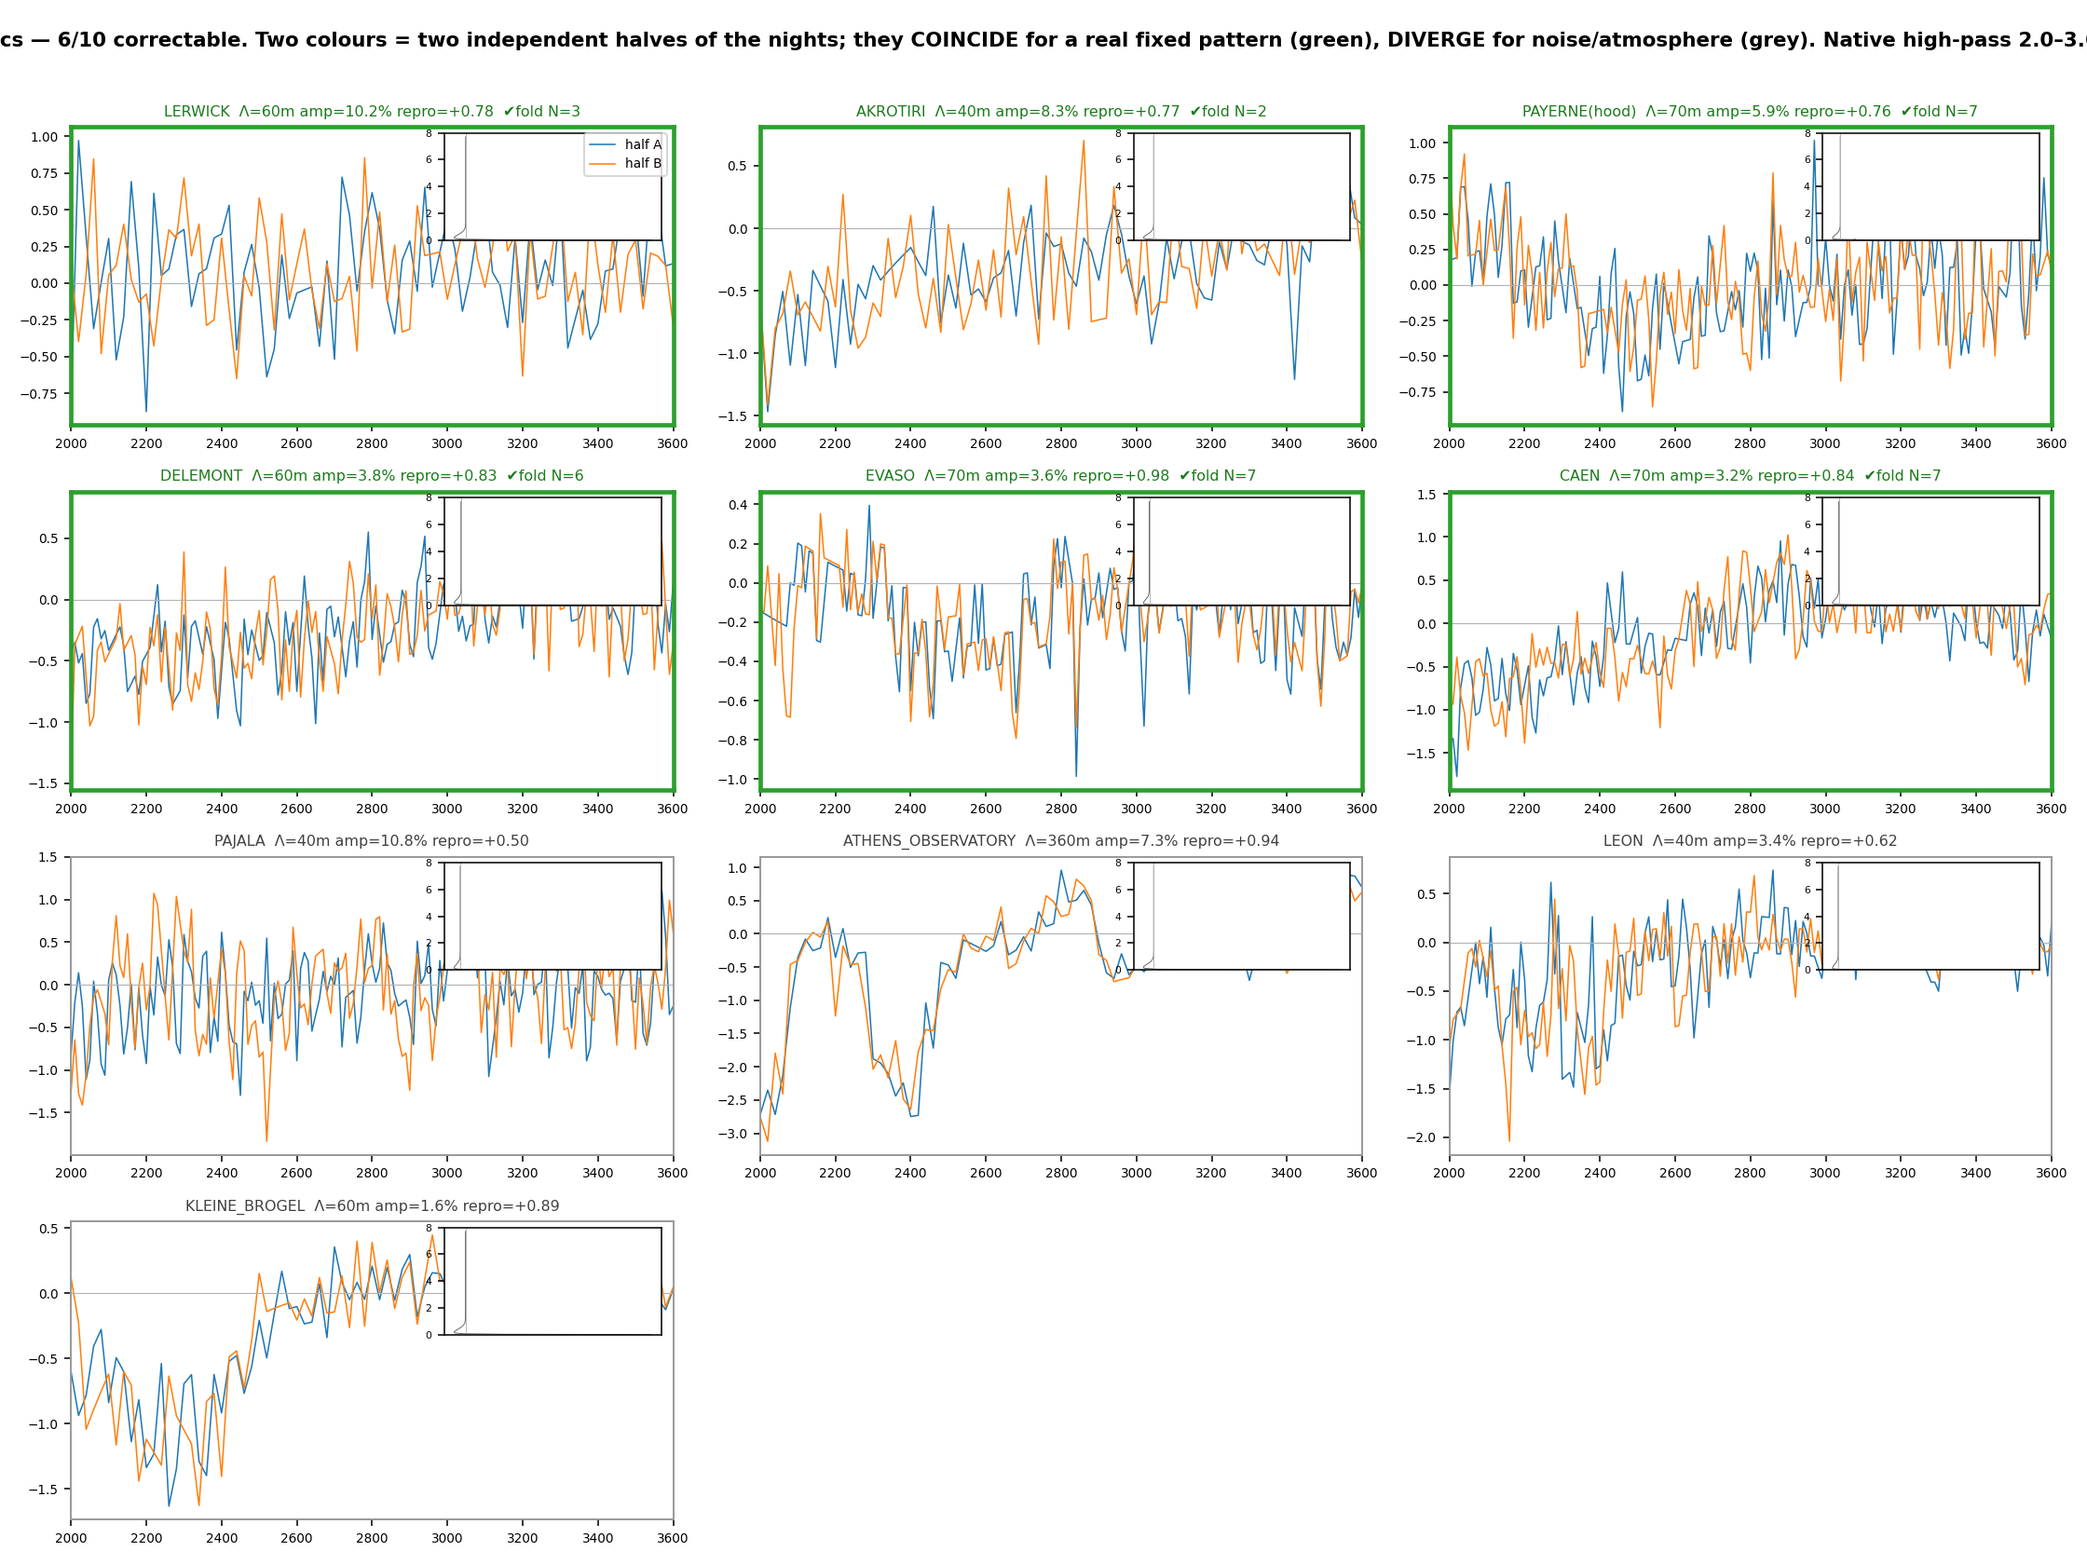
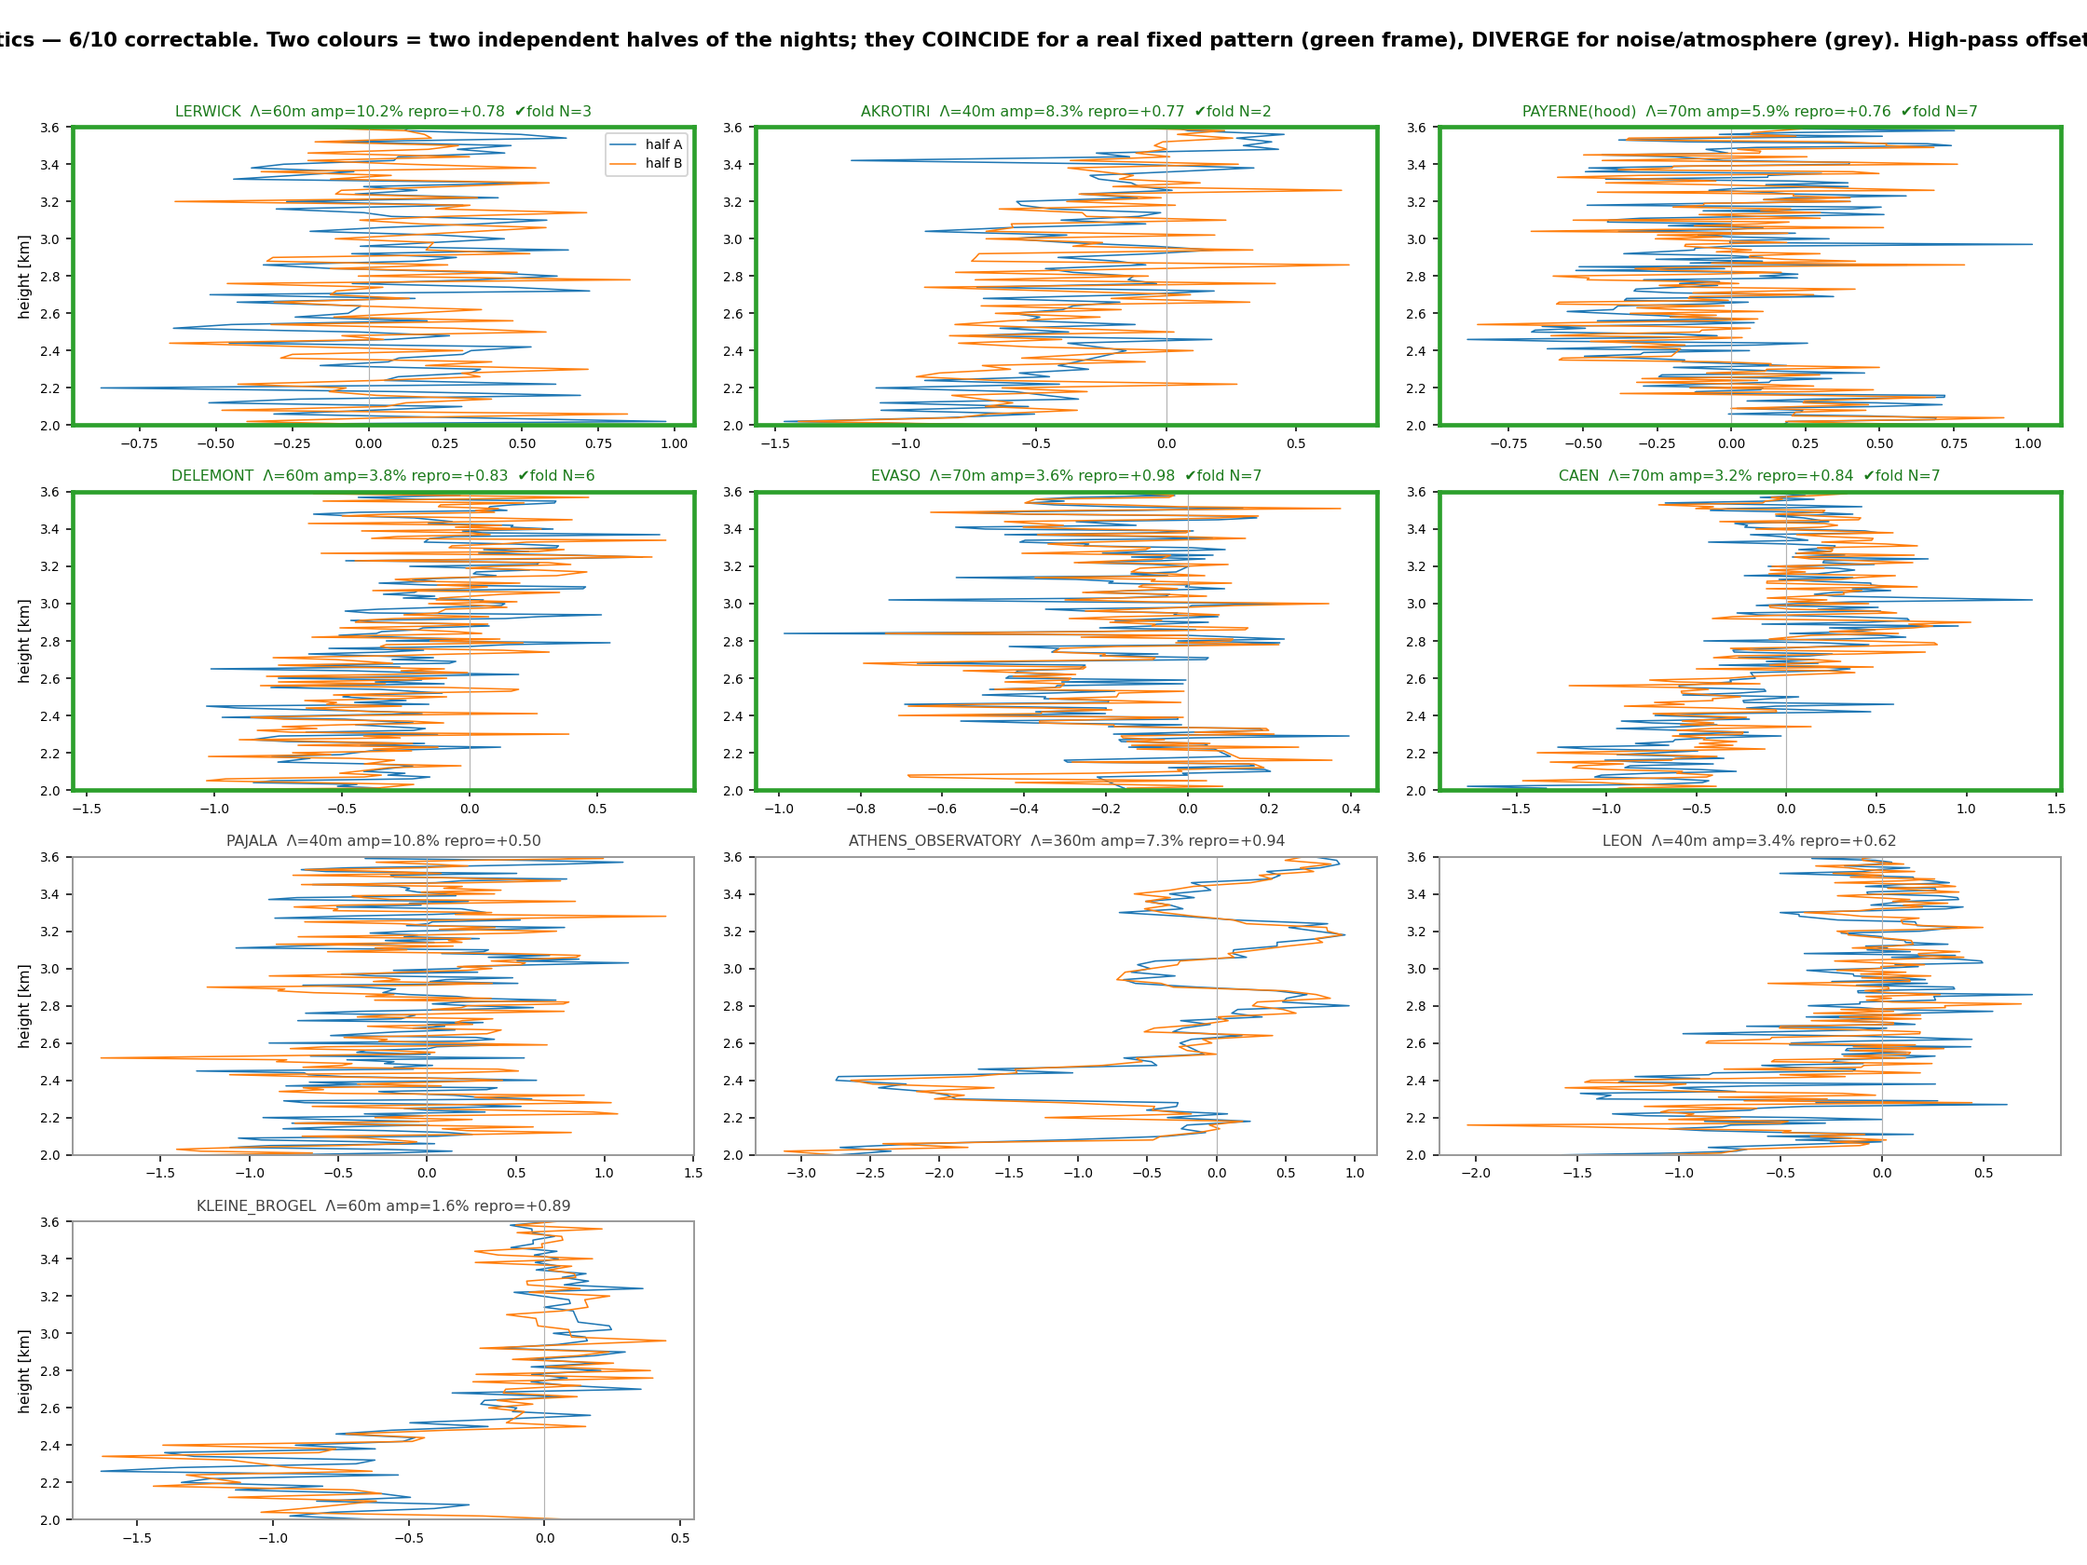
network offset: all-station pcolor diagnostics + height-on-Y axis convention
- Report now embeds diagnostics for ALL 31 stations: split-half offset grids (Figs
  3-5) + clear-day time-height PCOLOR quicklooks (Figs 3b-5b, new
  _offset_pcolor_diagnostics.py), plus one corrected-signal figure per correctable
  station (Figs 6-15).
- Convention: altitude/range now on the Y axis everywhere. The split-half diagnostics
  are flipped (offset on x, height on y) and the confusing full-profile INSET (the
  "empty black square" in the corner) is removed.
- pcolor colour scale focuses on the bulk signal (25-99.5 pct) so weak/uniform CL61
  profiles aren't washed to the dark floor; degenerate LogNorm limits guarded.

diff --git a/validation/paper/_offset_pcolor_diagnostics.py b/validation/paper/_offset_pcolor_diagnostics.py
@@ -1,0 +1,104 @@
+# -*- coding: utf-8 -*-
+"""Time-height PCOLOR quicklook for EVERY scanned instrument (all 31), one panel per station on a
+per-type grid, so the actual clear-day signal (and any visible banding) is auditable network-wide.
+Height on the Y axis (convention); time on X; log attenuated backscatter. Panels are framed green
+(correctable) / grey (not) and titled with the offset amplitude and split-half reproducibility."""
+import sys, glob, csv, warnings
+warnings.filterwarnings("ignore")
+sys.path.insert(0, r"C:/Users/hervo/OneDrive/Documents/ALC_rayleigh_calibration")
+try:
+    sys.stdout.reconfigure(encoding="utf-8", errors="replace")
+except Exception:
+    pass
+from pathlib import Path
+import numpy as np
+import matplotlib
+matplotlib.use("Agg")
+import matplotlib.pyplot as plt
+from matplotlib.colors import LogNorm
+import matplotlib.dates as mdates
+from validation.paper._offset_lib import read_file, list_files
+
+D = Path("C:/DATA/Projects/202606_E-PROFILE_calibration/figs_paper_validation/paper_python")
+NPZ = D / "network_offset"
+REPORT_FIG = Path("C:/Users/hervo/OneDrive/Documents/ALC_rayleigh_calibration/doc/reports/figs_paper_report")
+ZTOP = 6000.0
+
+meta = {}
+for r in csv.DictReader(open(D / "network_offset_coeffs_final.csv", encoding="utf-8")):
+    meta[(r["wmo"], r["ident"], r["itype"])] = r
+
+
+def clear_day(wmo, ident):
+    best = None
+    for f in list_files(wmo, ident, ("05",)):
+        try:
+            tt, r, x, cbh, _ = read_file(f)
+        except Exception:
+            continue
+        if x.ndim != 2 or tt.size < 200:
+            continue
+        nc = np.nanmax(cbh, axis=1) < 0 if cbh is not None else np.ones(tt.size, bool)
+        if best is None or int(nc.sum()) > best[0]:
+            best = (int(nc.sum()), tt, r, x)
+    return best[1:] if best else None
+
+
+def stations(itype):
+    out = []
+    for f in sorted(glob.glob(str(NPZ / f"*_{itype}.npz"))):
+        name = Path(f).stem
+        wmo = "_".join(name.split("_")[:-2]); ident = name.split("_")[-2]
+        z = np.load(f, allow_pickle=True); m = meta.get((wmo, ident, itype), {})
+        out.append((str(z["site"]), wmo, ident, m))
+    out.sort(key=lambda t: (-(t[3].get("correctable") == "1"), -float(t[3].get("rel_amp_pct", 0) or 0)))
+    return out
+
+
+TYPES = tuple(sys.argv[1:]) or ("CL51", "CL31", "CL61")     # optional: process only listed types
+for itype in TYPES:
+    rows = stations(itype)
+    n = len(rows); ncol = 3; nrow = int(np.ceil(n / ncol))
+    fig, ax = plt.subplots(nrow, ncol, figsize=(16, 2.9 * nrow), squeeze=False)
+    for k, (site, wmo, ident, m) in enumerate(rows):
+        a = ax[k // ncol][k % ncol]
+        got = clear_day(wmo, ident)
+        corr = m.get("correctable", "0") == "1"
+        col = "#2ca02c" if corr else "0.6"
+        for s in a.spines.values():
+            s.set_color(col); s.set_linewidth(2.4 if corr else 1.0)
+        if got is None:
+            a.text(0.5, 0.5, "no data", ha="center"); continue
+        tt, rng, X = got
+        beta = np.abs(X) * (1.0 if itype == "CL61" else 1e-2)     # nominal β_att scale
+        zm = rng <= ZTOP; tnum = mdates.date2num(tt)
+        pos = beta[:, zm][beta[:, zm] > 0]
+        # focus the colour scale on the bulk signal (25-99.5 pct) so weak, uniform profiles (CL61)
+        # are not washed to the dark floor by a few bright surface pixels
+        vmin = np.nanpercentile(pos, 25) if pos.size else 1e-3
+        vmax = np.nanpercentile(pos, 99.5) if pos.size else 1.0
+        if not np.isfinite(vmin) or vmin <= 0:
+            vmin = 1e-4
+        if not np.isfinite(vmax) or vmax <= vmin:
+            vmax = vmin * 100                                      # guard degenerate LogNorm limits
+        a.imshow(np.clip(beta[:, zm].T, vmin, vmax), aspect="auto", origin="lower",
+                 extent=[tnum[0], tnum[-1], 0, rng[zm].max() / 1000], cmap="turbo",
+                 norm=LogNorm(vmin=vmin, vmax=vmax))
+        a.xaxis_date(); a.xaxis.set_major_formatter(mdates.DateFormatter("%H")); a.tick_params(labelsize=7)
+        if k % ncol == 0:
+            a.set_ylabel("height [km]", fontsize=8)
+        amp = float(m.get("rel_amp_pct", 0) or 0); rep = float(m.get("split_half_repro", 0) or 0)
+        a.set_title(f"{site[:20]}  amp={amp:.1f}% repro={rep:+.2f}" + ("  ✔" if corr else ""),
+                    fontsize=8.2, color=("#1a7a1a" if corr else "0.25"))
+        print(f"  {itype} {site}", flush=True)
+    for k in range(n, nrow * ncol):
+        ax[k // ncol][k % ncol].axis("off")
+    ncorr = sum(1 for r in rows if r[3].get("correctable") == "1")
+    fig.suptitle(f"{itype} clear-day time-height quicklook — all {n} stations ({ncorr} correctable, green). "
+                 f"Time (x, hour UTC) vs height (y, 0–{ZTOP/1000:.0f} km); log β_att (nominal calibration).",
+                 fontweight="bold", fontsize=11)
+    fig.tight_layout(rect=(0, 0, 1, 0.97))
+    out = D / f"fig_offset_pcolor_{itype}.png"
+    fig.savefig(out, dpi=135); fig.savefig(REPORT_FIG / out.name, dpi=135)
+    print(f"saved {out.name}", flush=True)
+print("OFFSET_PCOLOR_DIAGNOSTICS_DONE")

diff --git a/validation/paper/_offset_diagnostics.py b/validation/paper/_offset_diagnostics.py
@@ -53,10 +53,11 @@ for itype in ("CL51", "CL31", "CL61"):
     fig, ax = plt.subplots(nrow, ncol, figsize=(16, 3.0 * nrow), squeeze=False)
     for k, d in enumerate(rows):
         a = ax[k // ncol][k % ncol]
-        rng = d["rng"]; zm = (rng >= ZOOM_LO) & (rng <= ZOOM_HI)
-        a.plot(rng[zm], d["hpa"][zm], "-", lw=0.8, color="#1f77b4", label="half A")
-        a.plot(rng[zm], d["hpb"][zm], "-", lw=0.8, color="#ff7f0e", label="half B")
-        a.axhline(0, color="0.7", lw=0.6)
+        rng = d["rng"]; zm = (rng >= ZOOM_LO) & (rng <= ZOOM_HI); zk = rng / 1000.0
+        # range on the Y axis (convention); the two night-halves as X-value profiles
+        a.plot(d["hpa"][zm], zk[zm], "-", lw=0.8, color="#1f77b4", label="half A")
+        a.plot(d["hpb"][zm], zk[zm], "-", lw=0.8, color="#ff7f0e", label="half B")
+        a.axvline(0, color="0.7", lw=0.6)
         col = "#2ca02c" if d["corr"] else "0.6"
         for s in a.spines.values():
             s.set_color(col); s.set_linewidth(2.4 if d["corr"] else 1.0)
@@ -64,20 +65,18 @@ for itype in ("CL51", "CL31", "CL61"):
         a.set_title(f"{d['site'][:20]}  Λ={d['Lam']:.0f}m amp={d['rel']:.1f}% repro={d['repro']:+.2f}"
                     + (f"  ✔{mode}" if d["corr"] else ""), fontsize=8.2,
                     color=("#1a7a1a" if d["corr"] else "0.25"))
-        a.set_xlim(ZOOM_LO, ZOOM_HI); a.tick_params(labelsize=7)
+        a.set_ylim(ZOOM_LO / 1000, ZOOM_HI / 1000); a.tick_params(labelsize=7)
+        if k % ncol == 0:
+            a.set_ylabel("height [km]", fontsize=8)
         if k == 0:
             a.legend(fontsize=7, loc="upper right")
-        ins = a.inset_axes([0.62, 0.62, 0.36, 0.36])
-        fm = rng <= 8000
-        ins.plot(d["hp"][fm], rng[fm] / 1000, lw=0.5, color="0.4")
-        ins.axvline(0, color="0.7", lw=0.5); ins.set_xticks([]); ins.tick_params(labelsize=5.5); ins.set_ylim(0, 8)
     for k in range(n, nrow * ncol):
         ax[k // ncol][k % ncol].axis("off")
     ncorr = sum(1 for d in rows if d["corr"])
-    fig.suptitle(f"{itype} offset diagnostics — {ncorr}/{n} correctable. Two colours = two independent "
-                 f"halves of the nights; they COINCIDE for a real fixed pattern (green), DIVERGE for "
-                 f"noise/atmosphere (grey). Native high-pass {ZOOM_LO/1000:.1f}–{ZOOM_HI/1000:.1f} km; inset = 0–8 km.",
-                 fontweight="bold", fontsize=11)
+    fig.suptitle(f"{itype} split-half offset diagnostics — {ncorr}/{n} correctable. Two colours = two "
+                 f"independent halves of the nights; they COINCIDE for a real fixed pattern (green frame), "
+                 f"DIVERGE for noise/atmosphere (grey). High-pass offset (x) vs height (y), "
+                 f"{ZOOM_LO/1000:.1f}–{ZOOM_HI/1000:.1f} km.", fontweight="bold", fontsize=11)
     fig.tight_layout(rect=(0, 0, 1, 0.97))
     out = D / f"fig_offset_diagnostics_{itype}.png"
     fig.savefig(out, dpi=140); fig.savefig(REPORT_FIG / out.name, dpi=140)

diff --git a/doc/reports/network_offset_coefficients.md b/doc/reports/network_offset_coefficients.md
@@ -76,6 +76,19 @@ offset. **Pajala** is rejected as too noisy (repro 0.50).*
 *Figure 5 — CL61: 0/10. Several show a reproducible pattern, but it decays with range (undamped ≈ 0.1)
 — the smooth near-range undershoot, which the clear-night high-pass cannot isolate (needs a hood).*
 
+**Clear-day time-height quicklooks — all stations.** For completeness, every station's actual signal
+(a clear day, log β_att, height on the Y axis) is shown below, framed green (correctable) / grey (not):
+
+![CL51 pcolor](figs_paper_report/fig_offset_pcolor_CL51.png)
+*Figure 3b — CL51: clear-day quicklooks, all 11 units.*
+
+![CL31 pcolor](figs_paper_report/fig_offset_pcolor_CL31.png)
+*Figure 4b — CL31: clear-day quicklooks, all 10 units. Note the near-zero (background-over-subtracted)
+free troposphere on several units.*
+
+![CL61 pcolor](figs_paper_report/fig_offset_pcolor_CL61.png)
+*Figure 5b — CL61: clear-day quicklooks, all 10 units.*
+
 The correctable offsets are mostly **short-period gate-locked ripples** (the Vaisala digitizer
 fixed-pattern ripple), whose period is **unit-specific** (40/60/70/80 m) — Kotthaus's "sensor-specific
 frequency". Their amplitude relative to the *mid-range* signal is 1–10 %, but because it is a fixed
@@ -98,24 +111,50 @@ rcs_0_corrected = rcs_0 − b_phys(range)          # then β_att = rcs_0_correct
 ```
 
 `_correctable_signal_figures.py` applies it to a full clear day per station and compares β_att with and
-without the correction (pcolor + clear-day mean profiles). The two flagship cases:
+without the correction (pcolor + clear-day mean profiles; each figure's bottom row zooms **1.5–3.5 km,
+spanning the old 1.8 km cut-off**, so the full-altitude correction is visible). One figure per
+correctable station follows.
+
+**CL51 (4):**
 
 ![Uccle corrected signal](figs_paper_report/fig_corrected_signal_uccle_CL51.png)
-*Figure 6 — **Uccle CL51** (40 m, 9 %). Bottom row zooms **1.5–3.5 km, spanning the old 1.8 km
-cut-off**: the fixed 40 m banding (d) is now removed at **all** altitudes (e), and the zoom mean profile
-(f) is flattened. On the strong boundary-layer signal (top) the correction is invisible — it matters in
-the weak free troposphere.*
+*Figure 6 — **Uccle CL51** (40 m, 9 %). The fixed 40 m banding (d) is removed at **all** altitudes (e),
+the zoom mean profile (f) flattened. On the strong boundary-layer signal (top) the correction is
+invisible — it matters in the weak free troposphere.*
+
+![Diepenbeek corrected signal](figs_paper_report/fig_corrected_signal_diepenbeek_CL51.png)
+*Figure 7 — **Diepenbeek CL51** (40 m, 5 %).*
+
+![Chilbolton corrected signal](figs_paper_report/fig_corrected_signal_chilbolton_alc_CL51.png)
+*Figure 8 — **Chilbolton CL51** (80 m, 1.8 %) — a weaker 8-gate ripple.*
+
+![Kuopio corrected signal](figs_paper_report/fig_corrected_signal_kuopio_vehmasmaki_CL51.png)
+*Figure 9 — **Kuopio CL51** (empirical free-troposphere pattern, 1.5 %).*
+
+**CL31 (6):**
 
 ![Lerwick corrected signal](figs_paper_report/fig_corrected_signal_lerwick_CL31.png)
-*Figure 7 — **Lerwick CL31** (60 m, 10 %) — a large distortion now captured. The CL31 free-troposphere
-β_att is near-zero (even negative, from CL31 background over-subtraction), so the correction sits on
-near-noise; the ripple banding is nonetheless removed.*
+*Figure 10 — **Lerwick CL31** (60 m, 10 %). The CL31 free-troposphere β_att is near-zero (even
+negative, from CL31 background over-subtraction), so the correction sits on near-noise; the ripple
+banding is nonetheless removed.*
 
-The full set of 10 corrected-signal figures (`fig_corrected_signal_<site>_<type>.png`: Uccle,
-Diepenbeek, Chilbolton, Kuopio CL51; Lerwick, Akrotiri, Payerne, Delémont, Evaso, Caen CL31) is in
-`figs_paper_report/`. The correction does **not** change the cloud-derived calibration constant (the
-strong-signal O'Connor method is offset-immune — companion §2.7); it is purely an aerosol-profile
-improvement, per flagged unit.
+![Akrotiri corrected signal](figs_paper_report/fig_corrected_signal_akrotiri_CL31.png)
+*Figure 11 — **Akrotiri CL31** (45 m, 8 %).*
+
+![Payerne corrected signal](figs_paper_report/fig_corrected_signal_payerne_CL31.png)
+*Figure 12 — **Payerne CL31** (70 m, 6 %) — the hood-anchored reference unit.*
+
+![Delemont corrected signal](figs_paper_report/fig_corrected_signal_delemont_CL31.png)
+*Figure 13 — **Delémont CL31** (60 m, 3.8 %).*
+
+![Evaso corrected signal](figs_paper_report/fig_corrected_signal_evaso_CL31.png)
+*Figure 14 — **Evaso CL31** (70 m, 3.6 %) — the tightest split-half agreement (repro 0.98).*
+
+![Caen corrected signal](figs_paper_report/fig_corrected_signal_caen_CL31.png)
+*Figure 15 — **Caen CL31** (70 m, 3.2 %).*
+
+The correction does **not** change the cloud-derived calibration constant (the strong-signal O'Connor
+method is offset-immune — companion §2.7); it is purely an aerosol-profile improvement, per flagged unit.
 
 ## 6. Limitations & honest scope
 
@@ -132,5 +171,7 @@ improvement, per flagged unit.
 `_offset_lib.py` (kernels: clear-night, split-half, gate-fold) · `_cl31_clearnight_vs_hood.py` (Fig 1) ·
 `_network_offset_scan.py` (per-instrument scan → npz cache) · `_network_offset_coeffs.py` (Fig 2 +
 `network_offset_coeffs.csv`) · `_offset_diagnostics.py` (Figs 3–5, split-half audit) ·
-`_correctable_signal_figures.py` (Figs 6–7 + the 10-station set). Sample: all usable CL61 (≥90 d) +
-one CL51/CL31 per country by data volume (+ Uccle CL51 & Payerne CL31 references).
+`_offset_pcolor_diagnostics.py` (Figs 3b–5b, all-station clear-day pcolor quicklooks) ·
+`_correctable_signal_figures.py` (Figs 6–15, one per correctable station). Sample: all usable CL61
+(≥90 d) + one CL51/CL31 per country by data volume (+ Uccle CL51 & Payerne CL31 references).
+All profile/offset plots follow the convention **altitude on the Y axis**.
